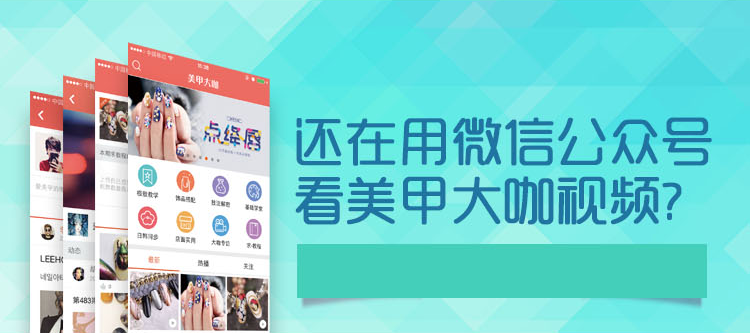
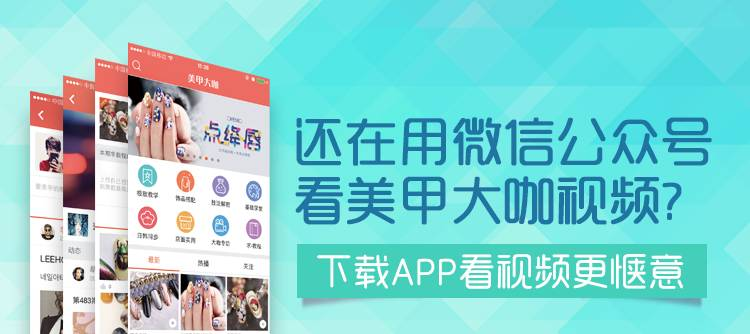
更改图片、间距细节调整

diff --git a/src/update/static/wx-dow.html b/src/update/static/wx-dow.html
@@ -22,9 +22,9 @@
 			font-size:16px;
 			width:260px;
 			height:55px;
-			background-color:#77a91f;
+			background-color:#76a91d;
 			margin: 0 auto;
-			margin-top: 40px;
+			margin-top: 45px;
 			color:#fff;
 			text-align: center;
 			line-height:55px;
@@ -39,15 +39,18 @@
 			height:45px;
 			background-color:#c9c9c9;
 			margin: 0 auto;
-			margin-top: 10px;
+			margin-top: 15px;
 			color:#fff;
 			text-align: center;
 			line-height:45px;
 			border-radius:5px;
 		}
 		.bottom{
-			margin-top:55px;
+			margin-top:50px;
 			text-align: center;
+		}
+		.bottom p{
+			color:#565657;
 		}
 	</style>
 </head>
